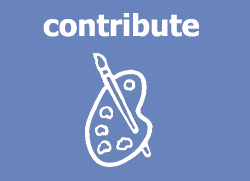
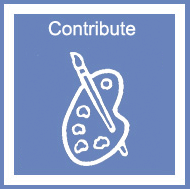
layout for index

diff --git a/public/index.html b/public/index.html
@@ -1,192 +1,35 @@
+<!DOCTYPE html>
 <html>
 <head>
-<meta name="apple-mobile-web-app-capable" content="yes" />
-<meta name="apple-mobile-web-app-status-bar-style" content="black" />
-<link rel="apple-touch-icon-precomposed" href="images/homeicon.png"/>
-<link rel="apple-touch-startup-image" href="images/myCustomStartupGraphic.png" />
-<meta name="viewport" content="width=device-width; initial-scale=1.0; maximum-scale=1.0; user-scalable=0;">
-  <link rel="stylesheet" type="text/css" href="/stylesheets/style.css" />
-
-  <script src="/javascripts/jquery.js"></script>
-  <script src="/javascripts/soundmanager.js"></script>
-
-<script>
-
-soundManager.url = '/data/swf/';
-soundManager.flashVersion = 9; // optional: shiny features (default = 8)
-soundManager.useFlashBlock = true; // optionally, enable when you're ready to dive in
-soundManager.debugMode = false;
-// enable HTML5 audio support, if you're feeling adventurous. iPad/iPhone will always get this.
-// soundManager.useHTML5Audio = true;
-soundManager.onready(function(oStatus) {
-    soundManager.url = '/data/swf/';
-  if (!oStatus.success) {
-    return false;
-  }
-  // soundManager is initialised, ready to use. Create a sound for this demo page.
-/*
-if (soundManager.flashVersion > 8) {
-t = window.setInterval(checkRAM,500);
-document.getElementById('flash-ram-use').style.display = 'inline';
-checkRAM();
-}*/
-
-  soundManager.createSound({
-    id: 'aDrumSound',
-    url: 'http://www.schillmania.com/projects/soundmanager2/demo/mpc/audio/AMB_SN13.mp3'
-  });
-
-  soundManager.createSound({
-      id: 'love',
-      url: 'http://charleswagner.net/speak/love.mp3'
-  });
-
-    soundManager.createSound({
-      id: 'i',
-      url: 'http://charleswagner.net/speak/i.mp3'
-  });
-
-    soundManager.createSound({
-      id: 'you',
-      url: 'http://charleswagner.net/speak/you.mp3'
-  });
-
- soundManager.onload = function() {
-  // soundManager is ready to use.
-  // createSound() / play() etc. can now be called
-
-
-
-    //
-    //soundManager.play('i','/data/i.wav');
-}
-soundManager.onerror = function() {
-  // Oh no! No sound support.
-  // Maybe configure your app to ignore sound calls.
-  // (SM2 calls will silently return false after this point.)
-}
-
-  //soundManager.play('i');
- // soundManager.play('love');
-  //soundManager.play('you');
- // soundManager.play('aDrumSound');
-});
-
-
-</script>
-
-
-
-
-
-
-  <script type="text/javascript">
-    var numImages = 0;
-    var imageWidth= 100;
-
-    var imageWidth = 100;
-    var imageMargin = 5;
-
-
-    function load(){
-        redrawDiv();
-
-
-
-
-    }
-
-    function resizeImages(){
-        var clientHeight = document.getElementById("images").clientHeight;
-        var clientWidth = document.getElementById("images").clientWidth;
-            imageWidth = 62;
-            imageMargin=3;
-            $('.image').css({width: imageWidth, margin: imageMargin, height: imageWidth});
-            imageWidthPixels = imageWidth + (imageMargin *2);
-            numColumns = Math.floor(clientWidth / imageWidthPixels) ;
-            numRows = Math.floor(clientHeight / imageWidthPixels);
-            numImages = numColumns *numRows -1;
-
-    }
-
-    function playSound(soundobj) {
-    soundManager.play(soundobj);
-   // var embed = "<embed src='/data/"+soundobj+".wav' hidden=true autostart=true loop=false>";
-   // document.getElementById("dummyspan").innerHTML= embed;
-   // alert(soundobj);
-    }
-
-
-
-    function redrawDiv(){
-       // var availHeight = window.screen.availHeight;
-       // var availWidth = window.screen.availWidth;
-        var clientHeight = document.getElementById("images").clientHeight;
-        var clientWidth = document.getElementById("images").clientWidth;
-
-        //alert(availHeight);
-        //alert(availWidth);
-        var pixels = clientHeight*clientWidth;
-        var numImages = pixels / (110 *110 );
-
-        var imageWidthPixels = imageWidth + (imageMargin *2);
-        var numColumns = Math.floor(clientWidth / imageWidthPixels) ;
-        var numRows = Math.floor(clientHeight / imageWidthPixels);
-        numImages = numColumns *numRows;
-
-        var resize=false;
-        //alert(numImages);
-        if(numImages < 6 ||imageWidth <100){
-            imageWidth = 60;
-            imageMargin=4;
-            $('.image').css({width: imageWidth, margin: imageMargin, height: imageWidth});
-            imageWidthPixels = imageWidth + (imageMargin *2);
-            numColumns = Math.floor(clientWidth / imageWidthPixels) ;
-            numRows = Math.floor(clientHeight / imageWidthPixels);
-            numImages = numColumns *numRows;
-            resize=true;
-
-        }
-
-        //alert(resize);
-
-        //alert(numColumns);
-        //alert(pixels);
-        //alert(pixels / (100 *100))
-        $('#images').html("");
-        for(var i = 0; i < numImages; i++){
-            var word = getRandomWord();
-            // " onClick=\'playSound("sound_'+word+'")\'
-            $('#images').html($('#images').html()+'<div class="image"><a href=\'javascript:playSound("'+word+'");\'><img src="images/'+word+'.jpg" width="'+imageWidth+'" /></a></div>');
-        }
-        if(resize){
-            resizeImages(numImages);
-        }
-
-    }
-    function getRandomWord(){
-        var imageArray = ["i","love","you"];
-        return imageArray[Math.floor(Math.random() *3)];
-
-    }
-
-
-  </script>
-
-
-
-
-
+  	<title>Free AAC</title>
+    <link href="/stylesheets/app.css?1305609040" media="screen" rel="stylesheet" type="text/css" />
+	<link href="/stylesheets/index.css?1305609018" media="screen" rel="stylesheet" type="text/css" />
+	<link href="/stylesheets/layout.css?1305760496" media="screen" rel="stylesheet" type="text/css" />
+	<link href="/stylesheets/scaffold.css?1305604737" media="screen" rel="stylesheet" type="text/css" />
 </head>
-<body onLoad="load();" onorientationchange="redrawDiv();">
-<div id="done">DONE</div>
-
-<div id="images"> IMAGES
-</div>
-
-  <span id="back">BACK</span>
-  <span id="more">MORE</span>
-
-
+<body>
+	<div id="container">
+	   <div id="header">
+			<img src="/images/logo.png" id="logo">	
+			<img src="/images/home.png" id="home">
+			<br style="clear:both;"/>
+		</div>
+	   <div id="body">
+			<div id="start">
+				<img src="/images/start.png" id="start"/>	
+			</div>
+			<div id="contribute">
+				<img src="/images/contribute.png" id="learn_more"/>
+				<img src="/images/learn_more.png" id="learn_more"/>
+			</div>
+			<div id="see_how_it_works">
+				<p>
+				FreeAAC.org is a community which provides free and accessible Augmented and Alternative communication devices to people with disabilities.
+				</p>
+			</div>
+	   </div>
+	   <div id="footer">
+	 	</div>
+	</div>
 </body>
 </html>

diff --git a/public/stylesheets/index.css b/public/stylesheets/index.css
@@ -1,24 +1,21 @@
 #start {
-	background-color:black;
- 	width:949px;	
-    margin:auto;
-  	border:3px solid black;
+	margin-top:10px;
+	background-color:#62c849;
+	padding:10px;
+	text-align:center;
 }
 
 
-#contribute, #learn_more, #see_how_it_works  {
-    border:2px solid white;
-   	margin:auto;
+#contribute, #see_how_it_works  {
 	margin-top:10px;
 	background-color:#6983bc;
-	padding:25px;
-	width:900px;	
+	padding:10px;
+	text-align:center;	
 }
 
-#start, #contribute, #learn_more, #see_how_it_works, #successful_submissions   {
-	-moz-border-radius: 10px; /* Firefox */
-	 -webkit-border-radius: 10px; /* Safari, Chrome */
-	 border-radius: 10px; /* CSS3 */
+#see_how_it_works p {
+	color:white;
+	font-size:30px;
 }
 
 .pic {
@@ -37,3 +34,12 @@
 
 .logo {float:left;background-color:black;padding:25px 0 25px 0;}
 .start {float:left;background-color:#62c849;padding:25px 0 25px 0;}
+
+
+#home {
+	float:right;
+}
+
+#logo {
+	float:left;
+}

diff --git a/public/stylesheets/layout.css b/public/stylesheets/layout.css
@@ -10,17 +10,17 @@ body {
    background-color:black;
    min-height:100%;
    position:relative;
-	background-image:url(/images/header_background.png);
+
 }
 #header {
    	padding:10px;
 	background:#505050;
-	border-bottom:2px solid white;
+
 }
 
 #body {
-   padding:10px;
-   padding-bottom:100px;   /* Height of the footer */
+
+   padding-bottom:90px;   /* Height of the footer */
 
 }
 #footer {
@@ -30,8 +30,8 @@ body {
    	width:100%;
    	height:80px;   /* Height of the footer */   
 	text-align:gray;
-	background:silver;
-	border-top:2px solid white;
+	background:#505050;
+
 }
 
 #footer a {color:black;}

diff --git a/public/stylesheets/style.css b/public/stylesheets/style.css
@@ -7,7 +7,7 @@ body, html {
 #done{
     width: 100%;
     height: 10%;
-    background-color: red;
+    background-color: #505050;
 }
 
 .image{
